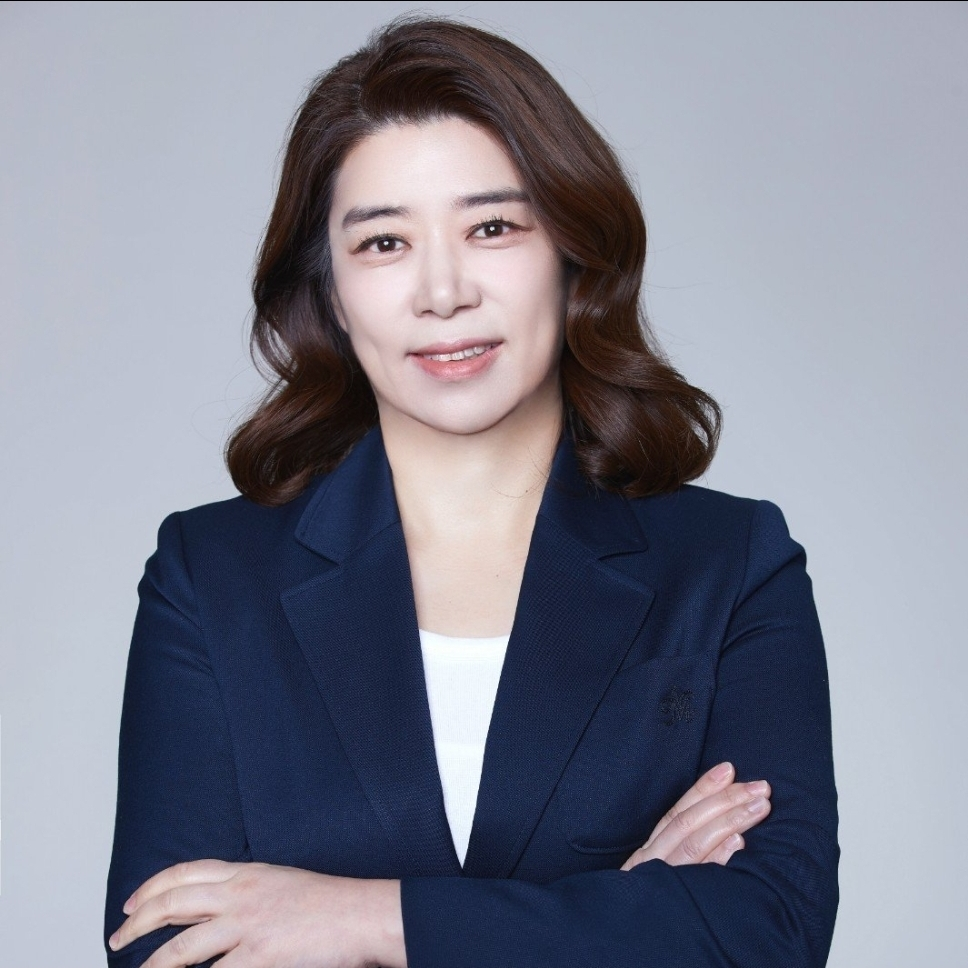
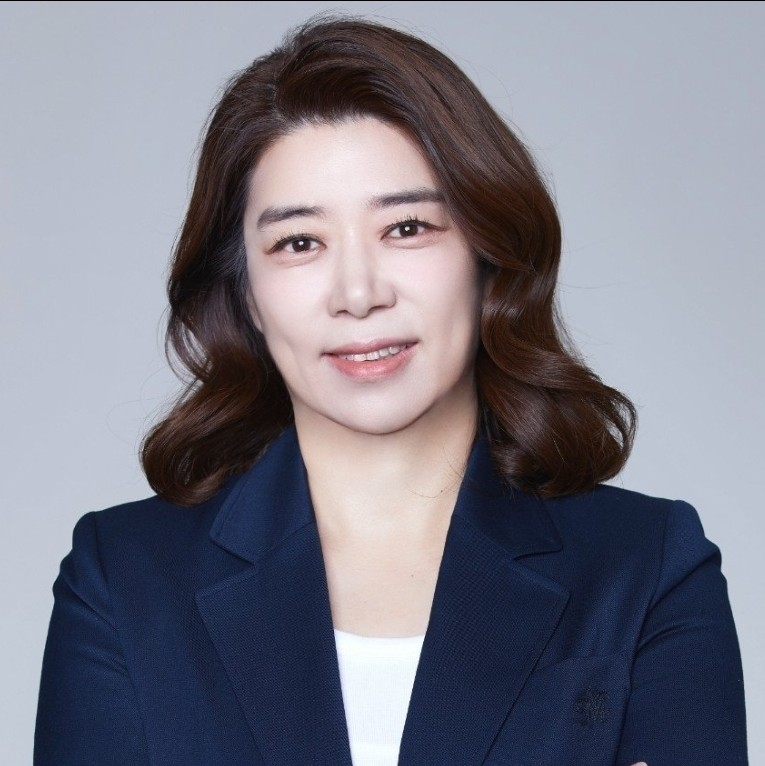
chore: switch faculty portraits to PNG assets in public/faculty

diff --git a/lib/mock-data.ts b/lib/mock-data.ts
@@ -81,7 +81,7 @@ export const MOCK_FACULTY: MockFaculty[] = [
     email: "[email redacted]",
     labSlug: "rne",
     bio: "교육 현장의 데이터와 연구 설계를 아우르는 경험을 바탕으로 청소년 R&E LAB과 진로진학 LAB을 이끕니다.",
-    portraitSrc: "/faculty/박인오.jpg",
+    portraitSrc: "/faculty/박인오.png",
     portraitObjectPosition: "center top",
     portraitZoom: 1.2,
     portraitTransformOrigin: "center top",
@@ -94,7 +94,7 @@ export const MOCK_FACULTY: MockFaculty[] = [
     email: "[email redacted]",
     labSlug: "academy",
     bio: "교육기관의 경영·마케팅·인사·전략을 연구·실무 관점에서 통합해 에듀비즈니스 LAB과 상담관리 LAB을 이끕니다.",
-    portraitSrc: "/faculty/2.jpg",
+    portraitSrc: "/faculty/원영란.png",
     portraitObjectPosition: "center top",
     portraitZoom: 1,
     portraitTransformOrigin: "center top",
@@ -107,7 +107,7 @@ export const MOCK_FACULTY: MockFaculty[] = [
     email: "[email redacted]",
     labSlug: "ai-tech-edu",
     bio: "AI와 경영·교육의 접점에서 연구방법론과 통계를 활용한 분석·전략을 지도합니다.",
-    portraitSrc: "/faculty/3.jpg",
+    portraitSrc: "/faculty/장의웅.png",
     portraitObjectPosition: "center top",
     portraitZoom: 1.06,
     portraitTransformOrigin: "center top",